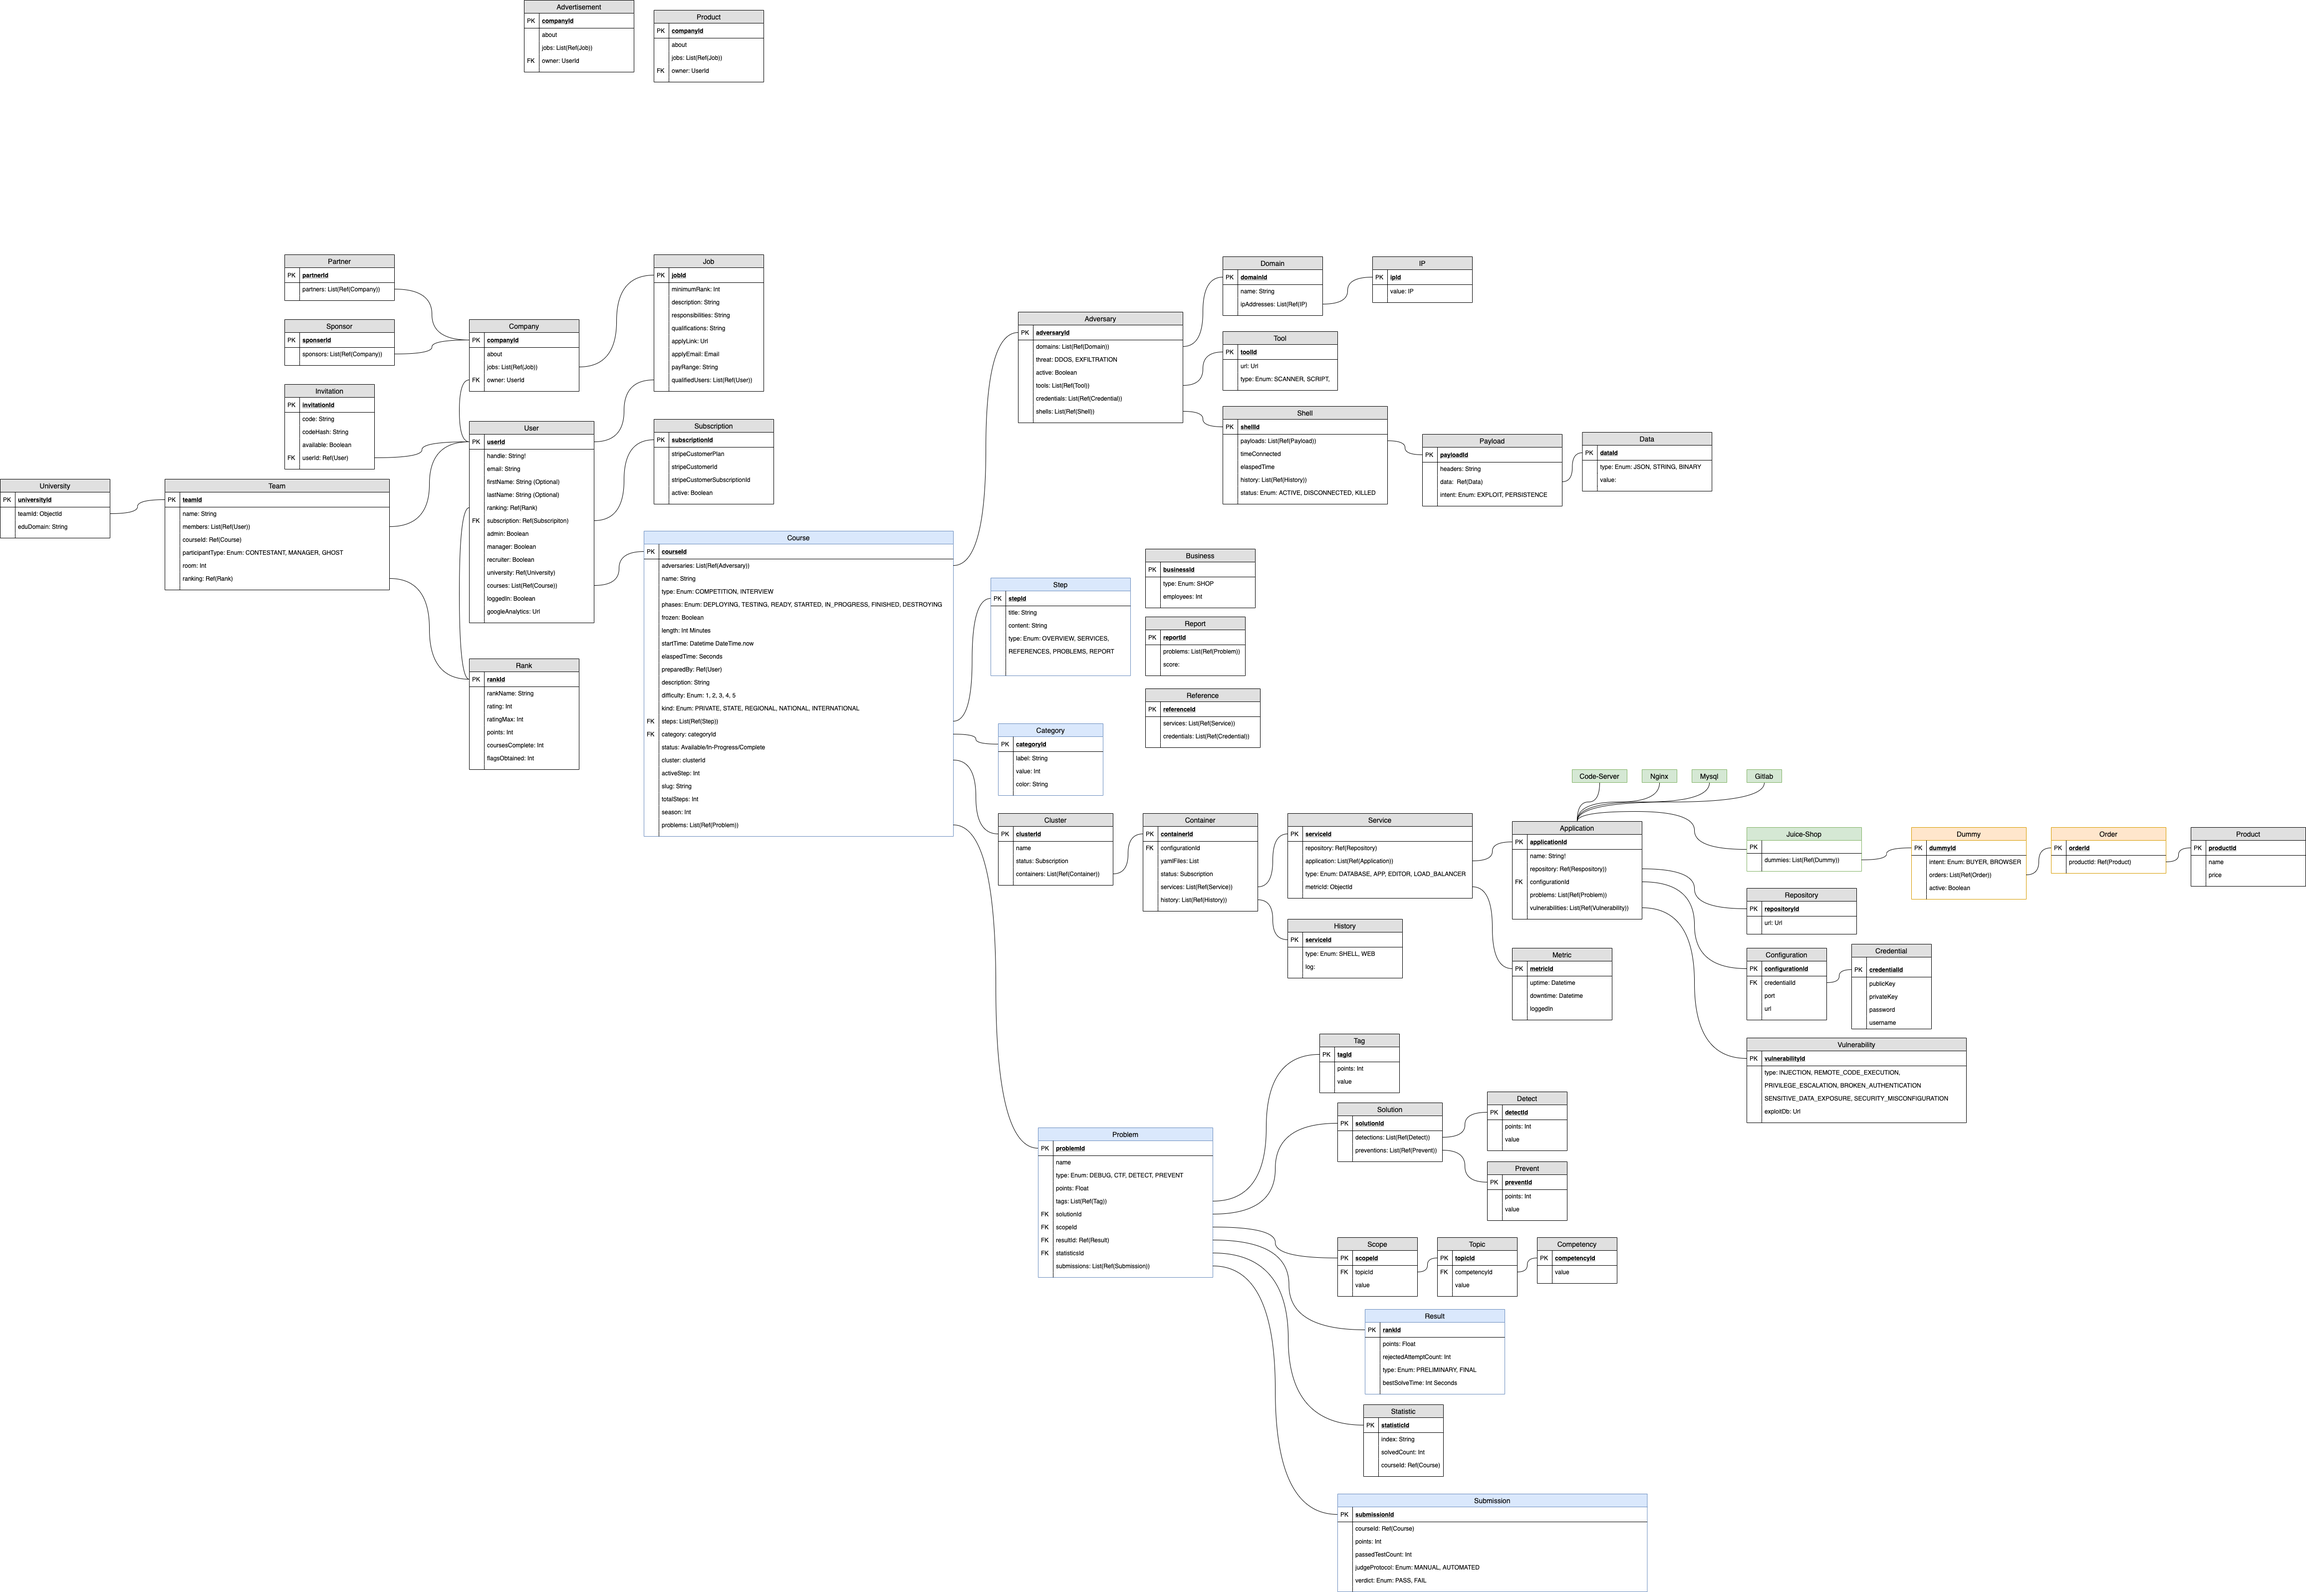
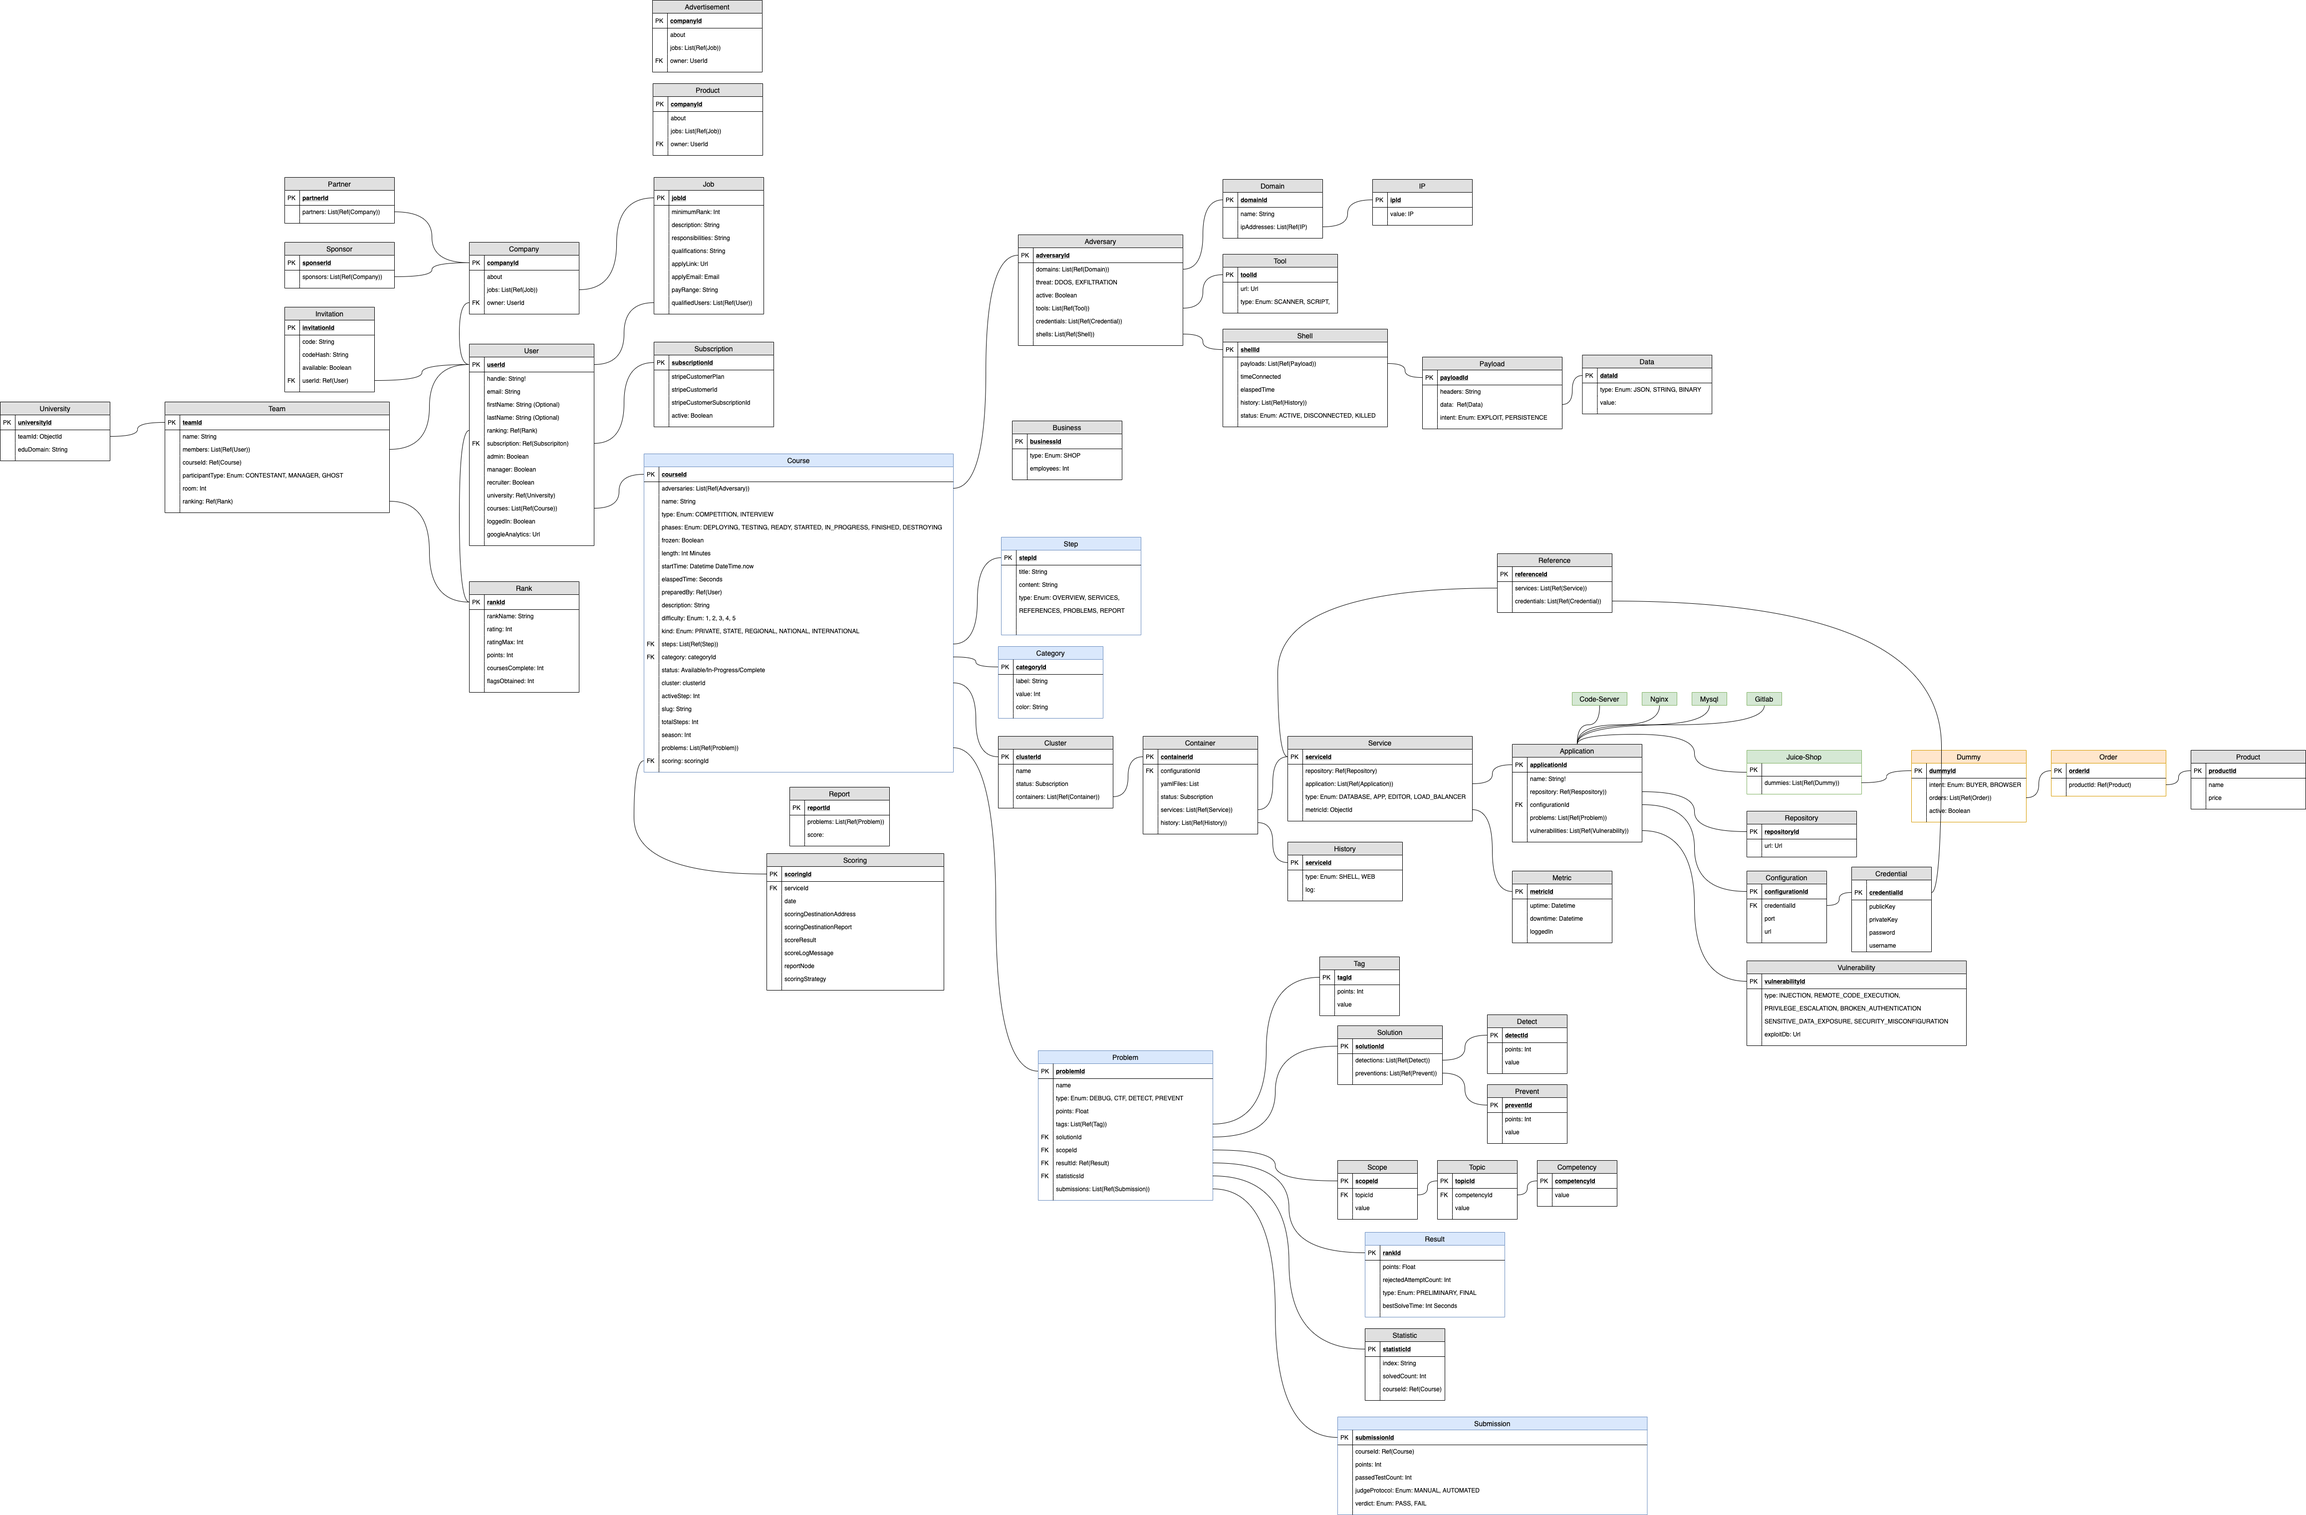
Adjusted mutations

diff --git a/app_mutations/courses/mutations.py b/app_mutations/courses/mutations.py
@@ -1,38 +1,47 @@
 import graphene
-from app_models.graphql.models import Course
-from app_types.types import CourseType, StepType
+from app_models.graphql.models import Course, Report, Category, Cluster
+from app_types.types import CourseType,ReportType,CategoryType,ClusterType
+from app_mutations.reports.mutations import ReportInput
+from app_mutations.categories.mutations import CategoryInput
+from app_mutations.clusters.mutations import ClusterInput
 
 class CourseInput(graphene.InputObjectType):
     id = graphene.ID()
     title = graphene.String()
     description = graphene.String()
-    report = graphene.ID()
-    category = graphene.ID()
-    cluster = graphene.ID()
-    status = graphene.String()
     activeStep = graphene.Int()
     length = graphene.Int()
     totalSteps = graphene.Int()
     slug = graphene.String()
-    steps = graphene.List(graphene.String)
 
 class CreateCourseMutation(graphene.Mutation):
     course = graphene.Field(CourseType)
+    category = graphene.Field(CategoryType)
+    cluster = graphene.Field(ClusterType)
     class Arguments:
         course_data = CourseInput(required=True)
-    def mutate(self, info, course_data=None):
+        category_data = CategoryInput(required=False)
+        cluster_data = ClusterInput(required=False)
+    @staticmethod
+    def get_category_object_by_value(value):
+        return Category.objects.get(value=value)
+
+    @staticmethod
+    def get_cluster_object_by_name(name):
+        return Cluster.objects.get(name=name)
+    
+    def mutate(self, info, course_data=None,  category_data=None, cluster_data=None):
+        category = CreateCourseMutation.get_category_object_by_value(category_data.value)
+        cluster = CreateCourseMutation.get_cluster_object_by_name(cluster_data.name)
         course = Course(
             title=course_data.title,
             description=course_data.description,
-            report=course_data.report,
-            category=course_data.category,
-            cluster=course_data.cluster,
-            status=course_data.status,
+            category=category,
+            cluster=cluster,
             activeStep=course_data.activeStep,
             length=course_data.length,
             totalSteps=course_data.totalSteps,
-            slug=course_data.slug,
-            steps=course_data.steps
+            slug=course_data.slug
         )
         course.save()
         return CreateCourseMutation(course=course)
@@ -50,14 +59,8 @@ class UpdateCourseMutation(graphene.Mutation):
             course.title = course_data.title
         if course_data.description:
             course.description = course_data.description
-        if course_data.report:
-            course.report = course_data.report
-        if course_data.category:
-            course.category = course_data.category
         if course_data.status:
             course.status = course_data.status
-        if course_data.cluster:
-            course.cluster = course_data.cluster
         if course_data.activeStep:
             course.activeStep = course_data.activeStep
         if course_data.length:
@@ -67,7 +70,7 @@ class UpdateCourseMutation(graphene.Mutation):
         if course_data.slug:
             course.slug = course_data.slug
         if course_data.steps:
-            course.steps = course_data.slug
+            course.steps = course_data.steps
         course.save()
         return UpdateCourseMutation(course=course)
 

diff --git a/app_mutations/scoring/mutations.py b/app_mutations/scoring/mutations.py
@@ -1,0 +1,45 @@
+import graphene
+from app_models.graphql.models import Scoring
+from app_types.types import ScoringType
+
+class ScoringInput(graphene.InputObjectType):
+    id = graphene.ID()
+    name = graphene.String()
+    value = graphene.String()
+
+class CreateScoringMutation(graphene.Mutation):
+    scoring = graphene.Field(ScoringType)
+    class Arguments:
+        scoring_data = ScoringInput(required=True)
+    def mutate(self, info, scoring_data=None):
+        scoring = Scoring(
+            value=scoring_data.value
+        )
+        scoring.save()
+        return CreateScoringMutation(scoring=scoring)
+
+class UpdateScoringMutation(graphene.Mutation):
+    scoring = graphene.Field(ScoringType)
+    class Arguments:
+        scoring_data = ScoringInput(required=True)
+    @staticmethod
+    def get_object(id):
+        return Scoring.objects.get(pk=id)
+    def mutate(self, info, scoring_data=None):
+        scoring = UpdateScoringMutation.get_object(scoring_data.id)
+        if scoring_data.value:
+            scoring.value = scoring_data.value
+        scoring.save()
+        return UpdateScoringMutation(scoring=scoring)
+
+class DeleteScoringMutation(graphene.Mutation):
+    class Arguments:
+        id = graphene.ID(required=True)
+    success = graphene.Boolean()
+    def mutate(self, info, id):
+        try:
+            Scoring.objects.get(pk=id).delete()
+            success = True
+        except:
+            success = False
+        return DeleteScoringMutation(success=success)

diff --git a/app_mutations/clusters/mutations.py b/app_mutations/clusters/mutations.py
@@ -5,7 +5,7 @@ from app_types.types import ClusterType
 class ClusterInput(graphene.InputObjectType):
     id = graphene.ID()
     name = graphene.String()
-    value = graphene.String()
+    status = graphene.String()
 
 class CreateClusterMutation(graphene.Mutation):
     cluster = graphene.Field(ClusterType)
@@ -13,7 +13,8 @@ class CreateClusterMutation(graphene.Mutation):
         cluster_data = ClusterInput(required=True)
     def mutate(self, info, cluster_data=None):
         cluster = Cluster(
-            value=cluster_data.value
+            name=cluster_data.name,
+            status=cluster_data.status
         )
         cluster.save()
         return CreateClusterMutation(cluster=cluster)
@@ -27,8 +28,10 @@ class UpdateClusterMutation(graphene.Mutation):
         return Cluster.objects.get(pk=id)
     def mutate(self, info, cluster_data=None):
         cluster = UpdateClusterMutation.get_object(cluster_data.id)
-        if cluster_data.value:
-            cluster.value = cluster_data.value
+        if cluster_data.name:
+            cluster.name = cluster_data.name
+        if cluster_data.status:
+            cluster.status = cluster_data.status
         cluster.save()
         return UpdateClusterMutation(cluster=cluster)
 

diff --git a/app_mutations/services/mutations.py b/app_mutations/services/mutations.py
@@ -32,11 +32,10 @@ class UpdateServiceMutation(graphene.Mutation):
     application = graphene.Field(ApplicationType)
     class Arguments:
         service_data = ServiceInput(required=True)
-        application_data = ApplicationInput(required=False)
     @staticmethod
     def get_service_object(id):
         return Service.objects.get(pk=id)
-    def mutate(self, info, service_data=None, application_data=None):
+    def mutate(self, info, service_data=None):
         service = UpdateServiceMutation.get_service_object(service_data.id)
         if service_data.value:
             service.value = service_data.value

diff --git a/app_mutations/applications/mutations.py b/app_mutations/applications/mutations.py
@@ -9,8 +9,10 @@ class ApplicationInput(graphene.InputObjectType):
 
 class CreateApplicationMutation(graphene.Mutation):
     application = graphene.Field(ApplicationType)
+
     class Arguments:
         application_data = ApplicationInput(required=True)
+        
     def mutate(self, info, application_data=None):
         application = Application(
             value=application_data.value
